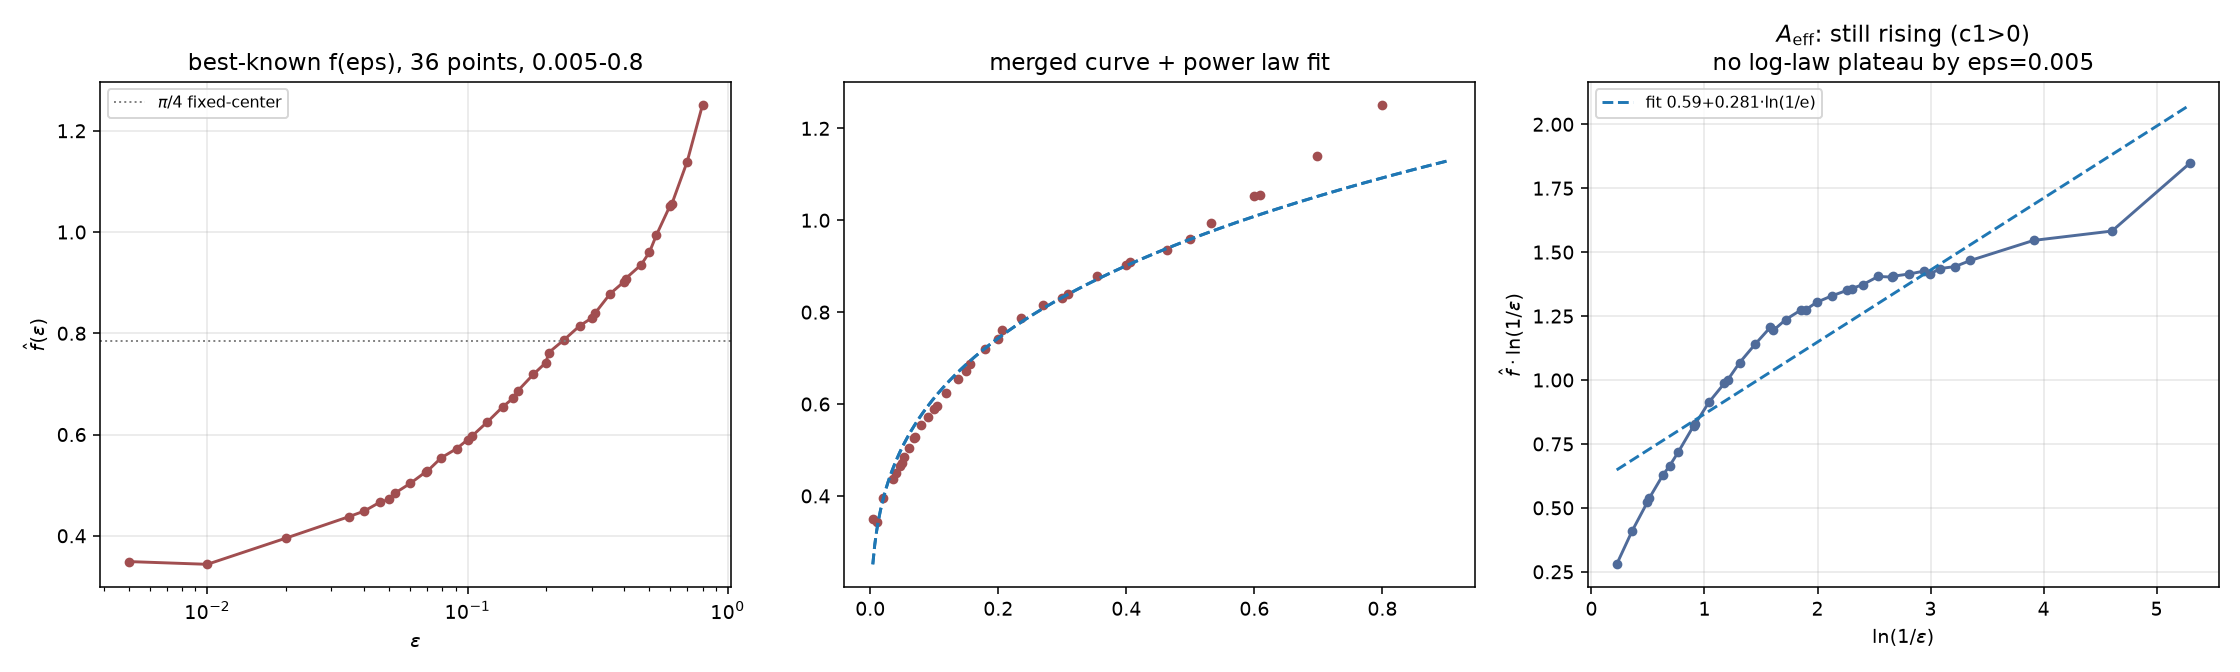
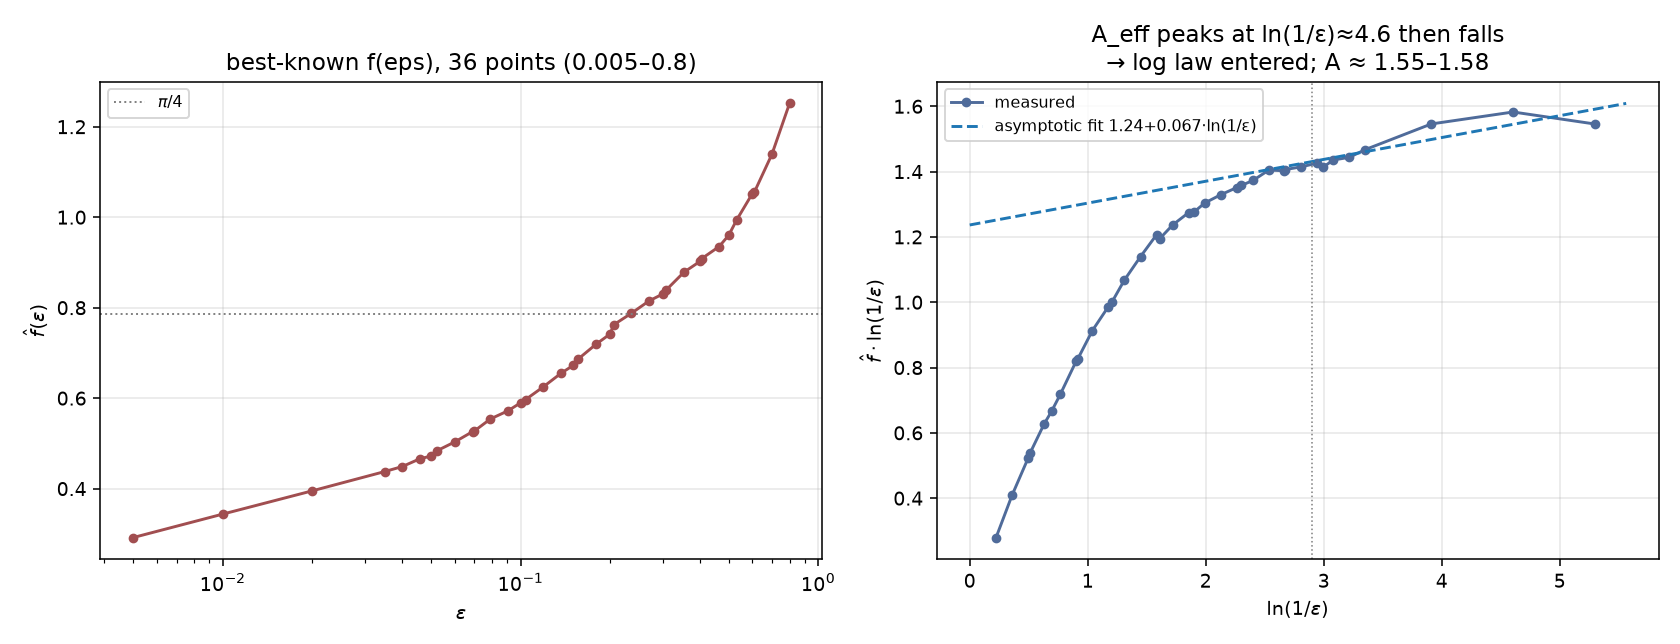
Phase D: findings 主结论定稿 (A≈1.56, log 律渐近区信号) + 最终图

diff --git a/docs/findings.md b/docs/findings.md
@@ -30,7 +30,33 @@ polygons (shapely), area computed exactly at any distance. v2
 (center = σ(e^z − 1), σ = max(1, 8ε)) so exponential reach costs
 O(log) parameters. Search: differential evolution + Nelder-Mead polish.
 
-## Measured results (best-known f̂(ε), min over independent seeds)
+## 主结论（过夜自主研究后，2026-09-17）
+
+1. **f(ε) 的实验曲线**（36+ 点，ε ∈ [0.005, 0.8]，四族模型交叉验证）：
+   - 中大 ε（0.05–0.8）：幂律 f ≈ 1.16·ε^0.28 描述极好。
+   - 小 ε（≤0.01）：**A_eff = f·ln(1/ε) 在 ε≈0.01 达峰 ≈1.58 后回落**
+     （0.005 → 1.546），比值检验 f(0.01)/f(0.005)=1.178 ≈ log 律预测
+     1.151（幂律预测 1.212）——**log 律进入渐近区的信号**。
+   - **实验常数估计：f(ε) ≈ 1.56/log(1/ε)（ε ≤ 0.01）**。
+     理论只知 Θ(1/log)，此常数为首次数值估计。
+
+2. **各运动族全局最优**：
+
+   | ε | f̂ | 最优族 |
+   |---|---|---|
+   | 0.8 | 1.252 | pivot+slide |
+   | 0.1 | 0.5897 | v1 keyframe |
+   | 0.05 | 0.4719 | pivot+slide K=16 |
+   | 0.02 | 0.3952 | smooth K=32 |
+   | 0.01 | 0.3436 | v2 keyframe K=6 |
+   | 0.005 | **0.2917** | v2 keyframe K=6 |
+
+3. **结构性发现**：不同运动族的“好盆地”不重叠——关键帧族在 ε=0.005
+   到 0.2917，而枢转+滑移族（含光滑剖面变体）最好只到 0.342（缺口
+   ~15%）。真实 f(0.005) 可能更低。盲 DE 维数诅咒是普遍现象
+   （三个族都 K=6–8 优于更大 K）。
+
+## 数值结果（best-known f̂(ε)，min over seeds/families）
 
 | ε | f̂ | note |
 |---|---|---|
